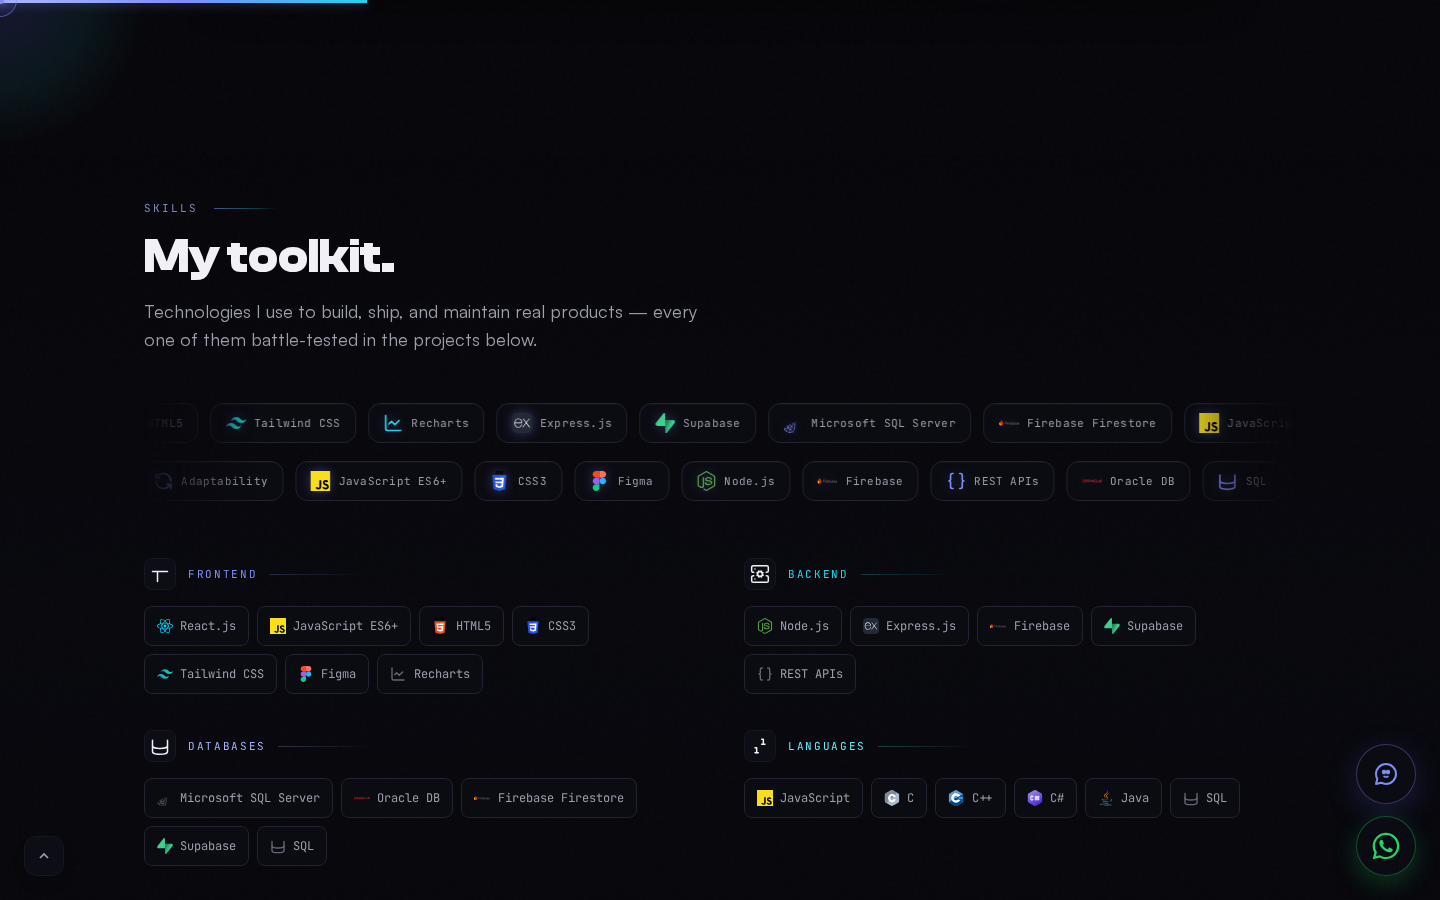
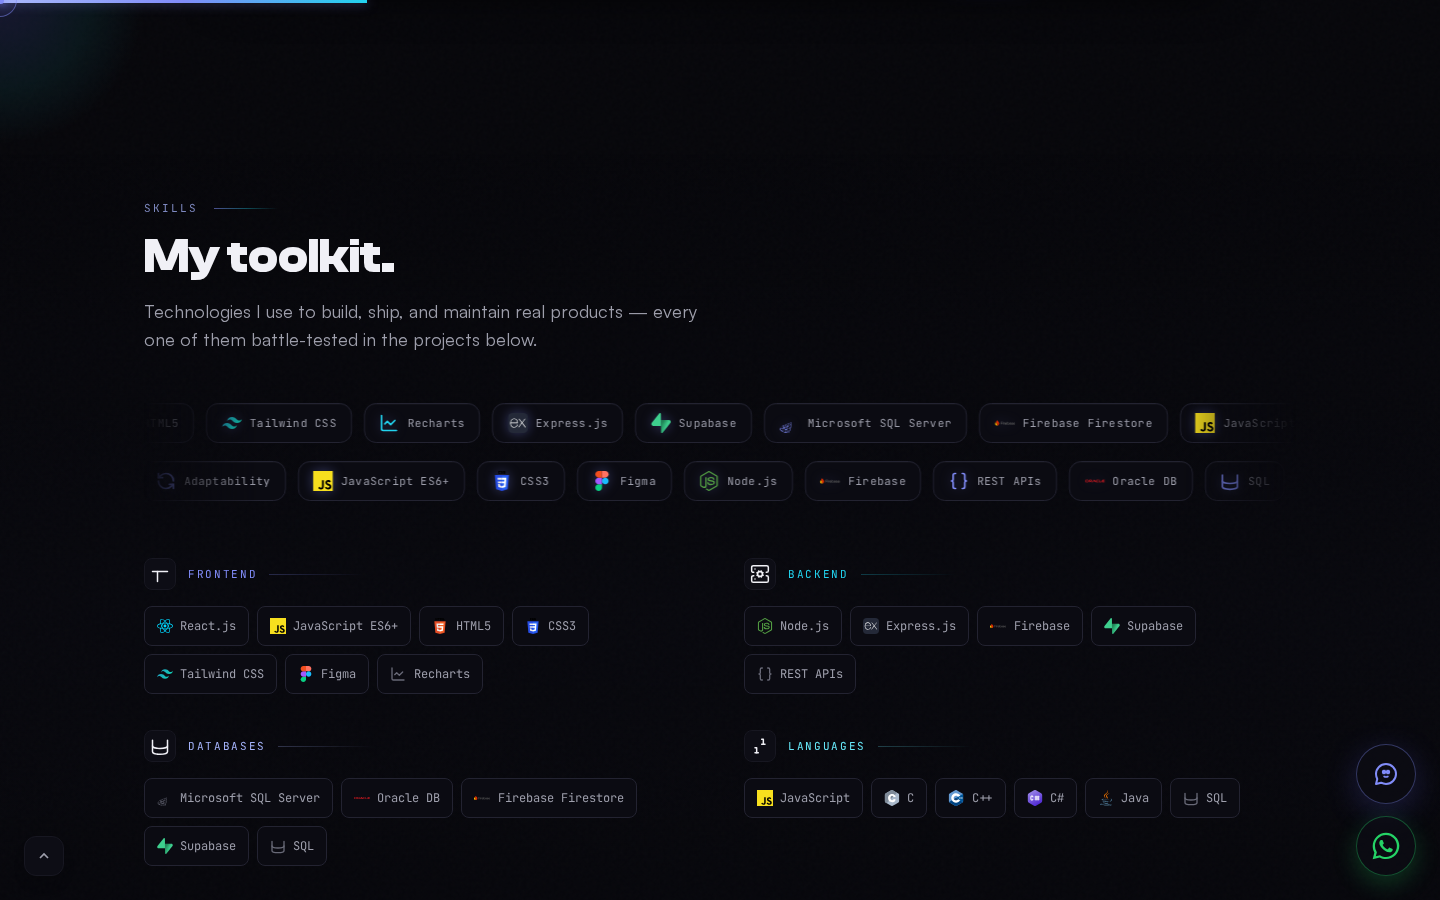
v21.1 compact rhythm: section-y 112->60px, tighten About/Toolkit/Journey/Projects/Activity/Contact/Footer dead space

diff --git a/src/components/About.jsx b/src/components/About.jsx
@@ -32,13 +32,13 @@ export default function About() {
   return (
     <section id="about" ref={ref} className="section-y relative">
       <div className="container-x">
-        <div className="animate-on-scroll flex items-center gap-4 mb-12">
+        <div className="animate-on-scroll flex items-center gap-4 mb-6">
           <span className="section-label">About</span>
           <div className="grad-line flex-1 max-w-16" />
         </div>
 
         {/* Full-width heading — no column owns the title, grid stays balanced */}
-        <h2 className="animate-on-scroll font-display font-bold text-4xl sm:text-5xl leading-tight mb-10 lg:mb-12 max-w-2xl">
+        <h2 className="animate-on-scroll font-display font-bold text-4xl sm:text-5xl leading-tight mb-7 lg:mb-8 max-w-2xl">
           Building software that<br />
           <span className="text-gradient-indigo">actually ships.</span>
         </h2>
@@ -123,7 +123,7 @@ export default function About() {
         </div>
 
         {/* Highlight strip — full width band, kills the old column dead-space */}
-        <div className="grid grid-cols-2 lg:grid-cols-4 gap-4 mt-12 lg:mt-14">
+        <div className="grid grid-cols-2 lg:grid-cols-4 gap-4 mt-10 lg:mt-12">
           {highlights.map((h, i) => (
             <div key={h.label} className="animate-on-scroll card-border-glow card-glow-border rounded-2xl p-5 bg-bg-card" style={{ transitionDelay: `${0.16 + 0.06 * i}s` }}>
               <h.Icon className="w-5 h-5 text-accent-indigo mb-3" strokeWidth={1.8} aria-hidden="true" />
@@ -134,12 +134,12 @@ export default function About() {
         </div>
 
         {/* Interactive terminal — query the portfolio like a CLI */}
-        <div className="animate-on-scroll mt-14 max-w-3xl mx-auto">
+        <div className="animate-on-scroll mt-10 lg:mt-12 max-w-3xl mx-auto">
           <div className="flex items-center gap-3 mb-4">
             <span className="font-mono text-[10px] text-accent-cyan/70 uppercase tracking-[0.18em]">Interactive</span>
             <div className="h-px flex-1 max-w-24" style={{ background: "linear-gradient(to right, rgba(34,211,238,0.4), transparent)" }} />
           </div>
-          <p className="font-body text-text-secondary text-sm mb-5 max-w-xl">
+          <p className="font-body text-text-secondary text-sm mb-4 max-w-xl">
             Prefer CLIs to contact forms? Query my portfolio like a terminal — try
             <code className="terminal-chip mx-1">skills</code>
             or

diff --git a/src/components/Projects.jsx b/src/components/Projects.jsx
@@ -448,12 +448,12 @@ export default function Projects() {
           <h2 className="animate-on-scroll font-display font-bold text-4xl sm:text-5xl text-text-primary mb-4" style={{ transitionDelay: "0.05s" }}>
             Case studies.
           </h2>
-          <p className="animate-on-scroll font-body text-text-secondary text-lg mb-10 max-w-2xl" style={{ transitionDelay: "0.1s" }}>
+          <p className="animate-on-scroll font-body text-text-secondary text-lg mb-8 max-w-2xl" style={{ transitionDelay: "0.1s" }}>
             Four production builds — every card opens the full story: the problem, the approach, the outcome.
           </p>
 
           {/* Search + Filter */}
-          <div className="animate-on-scroll mb-10 space-y-4" style={{ transitionDelay: "0.12s" }}>
+          <div className="animate-on-scroll mb-8 space-y-3" style={{ transitionDelay: "0.12s" }}>
             <div className="relative">
               <svg className="absolute left-4 top-1/2 -translate-y-1/2 text-text-muted" width="16" height="16" viewBox="0 0 24 24" fill="none" stroke="currentColor" strokeWidth="2" aria-hidden="true">
                 <circle cx="11" cy="11" r="8" />

diff --git a/src/components/Footer.jsx b/src/components/Footer.jsx
@@ -8,7 +8,7 @@ export default function Footer() {
   };
 
   return (
-    <footer className="border-t border-border-subtle relative overflow-hidden bg-bg-primary py-12 md:py-20 z-10">
+    <footer className="border-t border-border-subtle relative overflow-hidden bg-bg-primary py-10 md:py-14 z-10">
       {/* Top glow */}
       <div className="absolute top-0 left-1/2 -translate-x-1/2 w-96 h-px bg-gradient-to-r from-transparent via-accent-indigo/50 to-transparent" />
 
@@ -17,7 +17,7 @@ export default function Footer() {
       <div className="absolute bottom-0 right-1/4 w-[200px] h-[200px] rounded-full opacity-[0.015] blur-[80px] bg-accent-cyan pointer-events-none z-0 bg-blob-cyan" />
 
       <div className="container-x relative z-10">
-        <div className="grid grid-cols-1 sm:grid-cols-2 md:grid-cols-3 gap-8 mb-12">
+        <div className="grid grid-cols-1 sm:grid-cols-2 md:grid-cols-3 gap-8 mb-9">
           {/* Brand */}
           <div>
             <div className="flex items-center gap-2.5 mb-4">

diff --git a/src/components/Skills.jsx b/src/components/Skills.jsx
@@ -70,13 +70,13 @@ export default function Skills() {
         <h2 className="animate-on-scroll font-display font-bold text-4xl sm:text-5xl text-text-primary mb-4" style={{ transitionDelay: "0.05s" }}>
           My toolkit.
         </h2>
-        <p className="animate-on-scroll font-body text-text-secondary text-lg mb-12 max-w-xl" style={{ transitionDelay: "0.1s" }}>
+        <p className="animate-on-scroll font-body text-text-secondary text-lg mb-8 max-w-xl" style={{ transitionDelay: "0.1s" }}>
           Technologies I use to build, ship, and maintain real products — every one of them battle-tested in the projects below.
         </p>
 
         <SkillRails skills={Object.entries(skills)} />
 
-        <div className="grid md:grid-cols-2 gap-x-12 gap-y-9">
+        <div className="grid md:grid-cols-2 gap-x-12 gap-y-7">
           {Object.entries(skills).map(([cat, items], i) => {
             const meta = categoryMeta[cat] || { icon: "boxes", color: "#818cf8" };
             return (

diff --git a/src/components/Journey.jsx b/src/components/Journey.jsx
@@ -52,7 +52,7 @@ export default function Journey() {
         <h2 className="animate-on-scroll font-display font-bold text-4xl sm:text-5xl text-text-primary mb-4" style={{ transitionDelay: "0.05s" }}>
           The road so far.
         </h2>
-        <p className="animate-on-scroll font-body text-text-secondary text-lg mb-16 max-w-xl" style={{ transitionDelay: "0.1s" }}>
+        <p className="animate-on-scroll font-body text-text-secondary text-lg mb-10 max-w-xl" style={{ transitionDelay: "0.1s" }}>
           From first semester to a live client deployment — every step shipped something real.
         </p>
 
@@ -71,7 +71,7 @@ export default function Journey() {
             />
           )}
 
-          <div className="space-y-10 md:space-y-14">
+          <div className="space-y-6 md:space-y-8">
             {steps.map((step, i) => {
               const leftSide = i % 2 === 0;
               return (

diff --git a/src/index.css b/src/index.css
@@ -91,8 +91,9 @@
     --shadow-card: 0 1px 0 0 rgb(255 255 255 / 0.03) inset, 0 24px 60px -30px rgb(0 0 0 / 0.7);
     --shadow-lift: 0 18px 44px -18px rgb(0 0 0 / 0.75), 0 4px 12px -6px rgb(0 0 0 / 0.5);
     --glow-strength: 1;
-    /* v21 — one vertical rhythm (8px scale) */
-    --section-y: clamp(4rem, 8vw, 7rem);
+    /* v21.1 — compact vertical rhythm: sections breathe, not yawn.
+       40px mobile → 60px desktop (was 64→112px, user-flagged dead space) */
+    --section-y: clamp(2.5rem, 4.5vw, 3.75rem);
   }
 }
 
@@ -298,7 +299,7 @@ input::placeholder, textarea::placeholder { color: rgb(var(--text-muted)); }
 .skill-rails {
   display: grid;
   gap: 0.9rem;
-  margin-bottom: 3.5rem;
+  margin-bottom: 2rem;
 }
 .skill-rail {
   overflow: hidden;

diff --git a/src/components/Contact.jsx b/src/components/Contact.jsx
@@ -138,7 +138,7 @@ export default function Contact() {
           Let's build something<br /><span className="text-gradient-indigo">together.</span>
         </h2>
 
-        <p className="animate-on-scroll font-body text-text-secondary text-lg max-w-xl mx-auto mb-12 leading-relaxed text-center" style={{ transitionDelay: "0.12s" }}>
+        <p className="animate-on-scroll font-body text-text-secondary text-lg max-w-xl mx-auto mb-8 leading-relaxed text-center" style={{ transitionDelay: "0.12s" }}>
           I'm actively looking for internships, junior roles, or freelance projects.
           If you have something interesting in mind, I'd love to hear about it.
         </p>

diff --git a/src/components/GitHubActivity.jsx b/src/components/GitHubActivity.jsx
@@ -165,7 +165,7 @@ export default function GitHubActivity() {
           <span className="section-label">GitHub Activity</span>
           <div className="grad-line flex-1 max-w-16" />
         </div>
-        <div className="flex items-end justify-between gap-4 flex-wrap mb-12">
+        <div className="flex items-end justify-between gap-4 flex-wrap mb-8">
           <div>
             <h2 className="animate-on-scroll font-display font-bold text-4xl sm:text-5xl text-text-primary mb-4" style={{ transitionDelay: "0.05s" }}>
               In motion, live.
